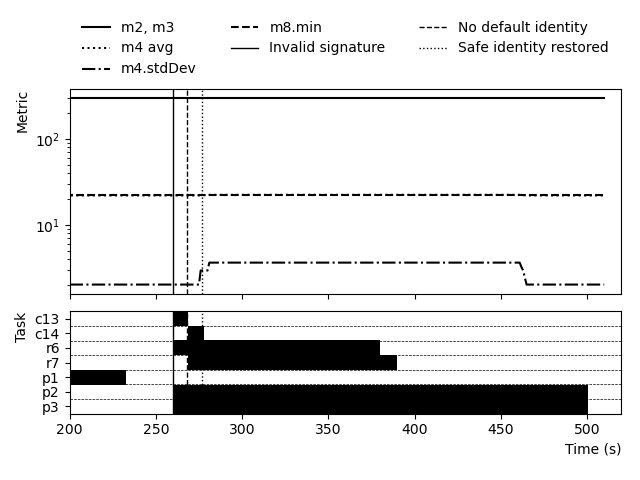
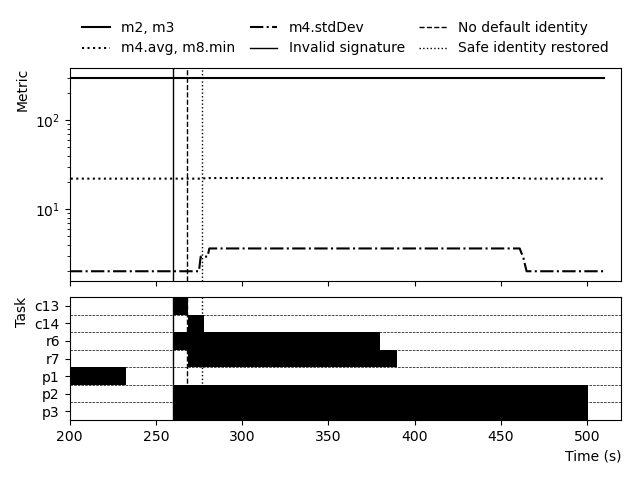
Fixed label

diff --git a/script/misconfiguration_plot.py b/script/misconfiguration_plot.py
@@ -76,7 +76,8 @@ if __name__ == "__main__":
                         ["measurements_index", "M4", str(i), "M4", "avg"], data
                     ),
                     "M4 stdDev": access(
-                        ["measurements_index", "M4", str(i), "M4", "stdDev"], data
+                        ["measurements_index", "M4", str(
+                            i), "M4", "stdDev"], data
                     ),
                     "M8 min": access_min(
                         ["measurements_index", "M8", str(i), "M8"], data
@@ -92,7 +93,8 @@ if __name__ == "__main__":
     evaluations_data = (
         pd.DataFrame.from_dict(
             {
-                i: {t: access(["evaluations_index", t, str(i)], data) for t in TASKS}
+                i: {t: access(["evaluations_index", t, str(i)], data)
+                    for t in TASKS}
                 for i in range(1, S_END)
             },
             orient="index",
@@ -103,8 +105,8 @@ if __name__ == "__main__":
 
     plt.subplots(nrows=2, ncols=1, sharex="col")
     ax = plt.subplot(2, 1, 1)
-    labels = ["m2, m3", "m4 avg", "m4.stdDev", "m8.min"]
-    columns = ["M2", "M4 avg", "M4 stdDev", "M8 min"]
+    labels = ["m2, m3", "m4.avg, m8.min", "m4.stdDev"]
+    columns = ["M2", "M4 avg", "M4 stdDev"]
     style = ["solid", "dotted", "dashdot", "dashed"]
     for col, lab, sty in zip(columns, labels, style):
         ax.plot(
@@ -131,7 +133,7 @@ if __name__ == "__main__":
     ax.imshow(
         evaluations_data.astype(float).transpose(),
         interpolation="nearest",
-        aspect=len(evaluations_data)/60,
+        aspect=len(evaluations_data)/50,
         cmap=ListedColormap(["k", "w"]),
     )
     vertical_lines(ax)
